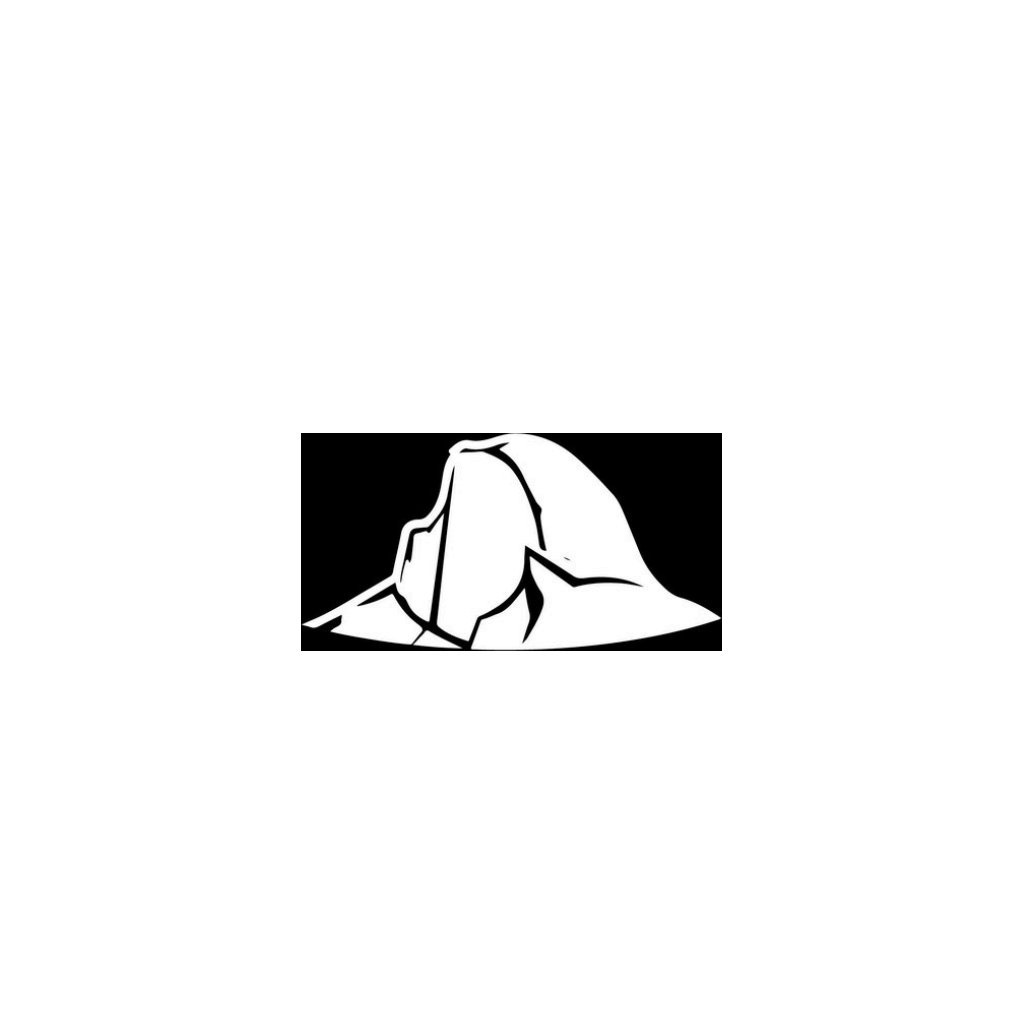
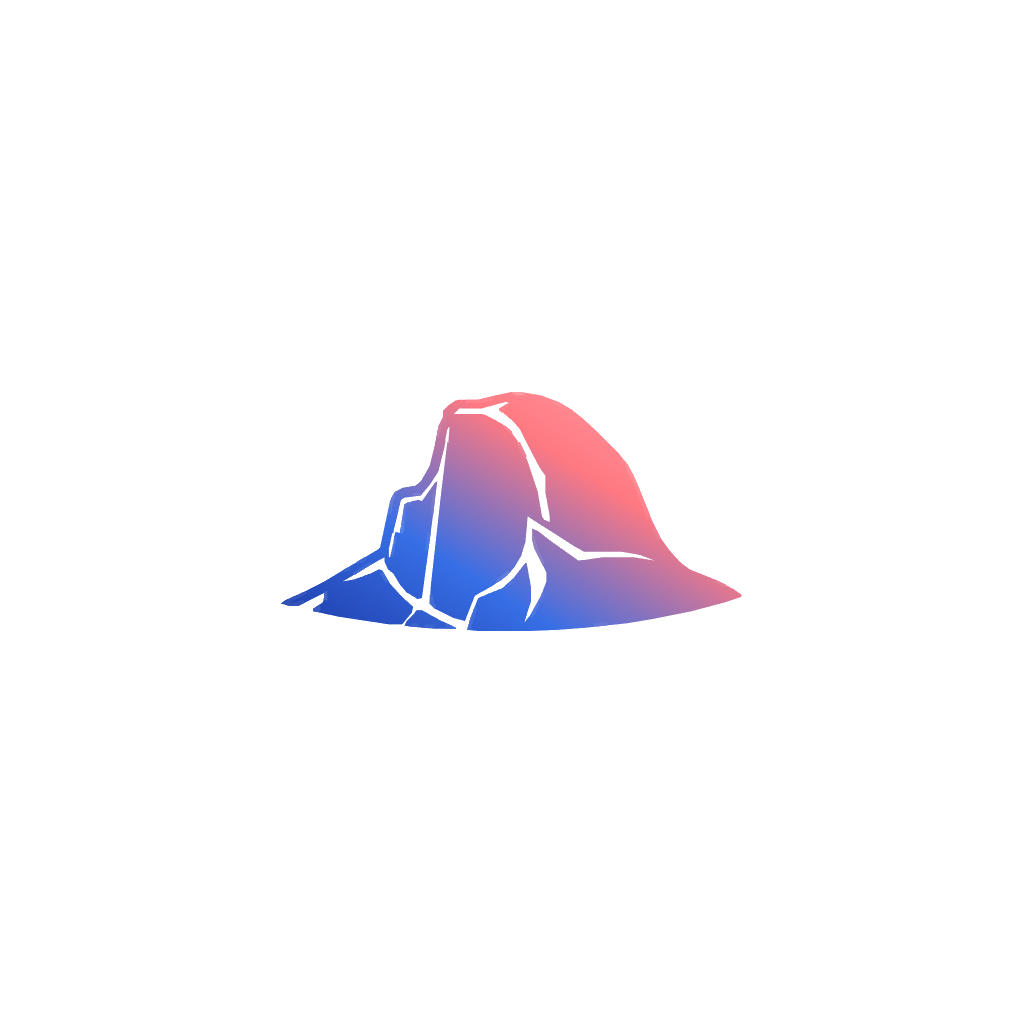
Enlarge Half Dome mark and lead the README with it.
The mountain fills the icon more, and GitHub shows Half Dome branding instead of the small Ardia header.

Changed region(s): [[0.2812, 0.375, 0.7188, 0.6562]]

diff --git a/README.md b/README.md
@@ -1,31 +1,20 @@
-> **Half Dome** (`abed42/half-dome`) is a tracking fork of [ardia-browser/ardia](https://github.com/ardia-browser/ardia).
-> Branding and experiments live under [`halfdome/`](halfdome/) and [HALFDOME.md](HALFDOME.md). Ardia release tags are rebased in with [`halfdome/scripts/sync-ardia.sh`](halfdome/scripts/sync-ardia.sh).
+<p align="center">
+  <img src="halfdome/branding/icon-1024.png" width="256" height="256" alt="Half Dome app icon">
+</p>
+
+<h1 align="center">Half Dome</h1>
 
 <p align="center">
-  <img src="halfdome/branding/icon-1024.png" width="128" height="128" alt="Half Dome app icon">
+  A tracking fork of <a href="https://github.com/ardia-browser/ardia">Ardia</a> — Arc’s sidebar and Dia’s polish on real Chromium.<br>
+  Their engineers carry the browser treadmill. We carry the experiments.
 </p>
 
 <p align="center">
-  <img src="apps/site/src/assets/app-icon.png" width="64" height="64" alt="Ardia's app icon">
-</p>
-
-<h1 align="center">Touch grass.</h1>
-
-<p align="center">
-  Arc’s sidebar and Dia’s polish on real Chromium.<br>
-  Free and open source. Ads and trackers stay out.
-</p>
-
-<h3 align="center">
-  <a href="https://github.com/ardia-browser/ardia/releases/download/v0.2.48/Ardia-0.2.48.dmg">Download Ardia 0.2.48 for Mac</a>
-</h3>
-
-<p align="center">
-  134 MB DMG · macOS 14 Sonoma or later · Apple Silicon · Notarized by Apple<br>
-  Like your paint wet? <a href="https://ardia.dev/nightly">The nightly</a> has every fix the day it’s made, smudges and all.<br>
-  Homebrew: <code>brew install ardia-browser/tap/ardia</code><br>
-  On your phone: <a href="https://testflight.apple.com/join/yXHasDmr">iPhone (TestFlight)</a> · <a href="https://github.com/ardia-browser/ardia/releases/download/android-v1.0.2/Ardia-1.0.2.apk">Android (APK)</a><br>
-  <a href="https://ardia.dev">ardia.dev</a> · <a href="https://ardia.dev/release-notes">What’s new</a> · <a href="https://github.com/ardia-browser/ardia/releases">All releases</a> · <a href="https://discord.gg/TdhuXrbcA6">Discord</a>
+  <a href="HALFDOME.md">How the fork works</a>
+  ·
+  <a href="halfdome/scripts/sync-ardia.sh">Sync from Ardia releases</a>
+  ·
+  <a href="https://github.com/ardia-browser/ardia">Upstream Ardia</a>
 </p>
 
 <p align="center">
